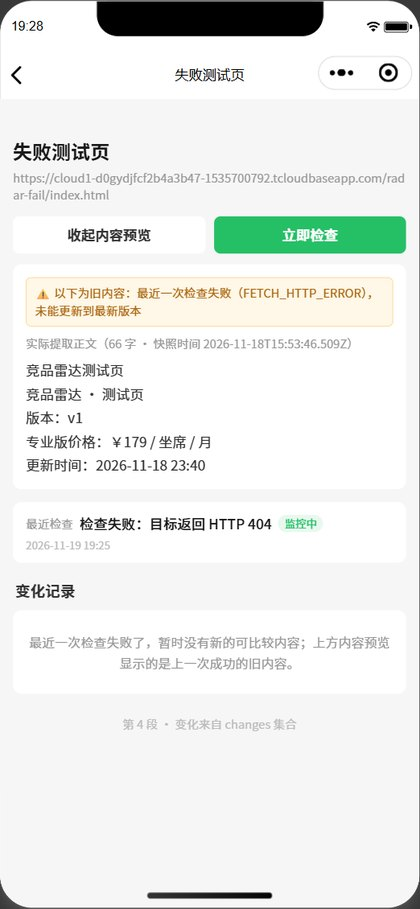
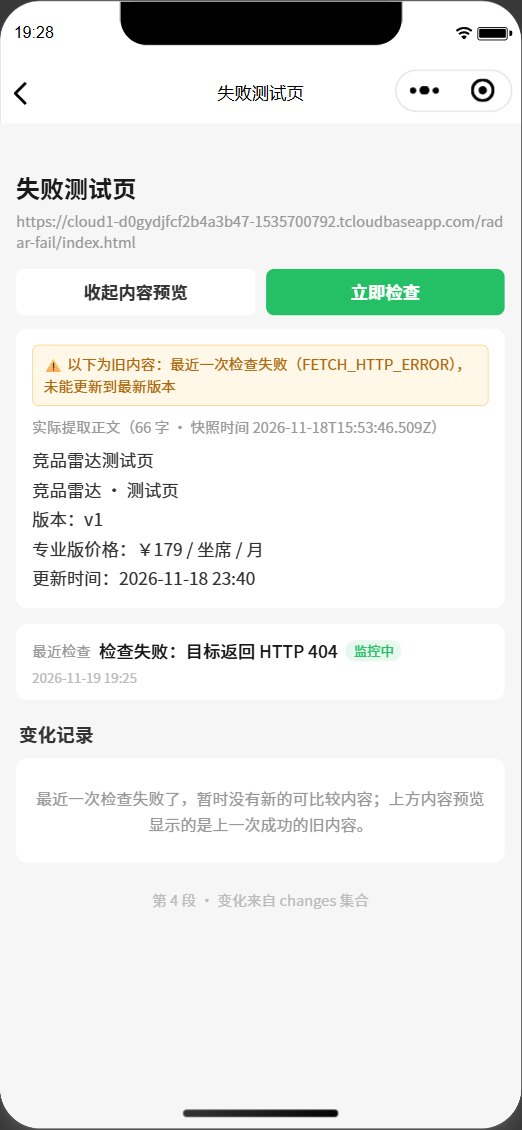
手机截图改为 2 倍分辨率并居中，配图说明对齐

diff --git a/index.html b/index.html
@@ -183,11 +183,11 @@
           <figure class="shots shots--phones">
             <div class="grid">
               <div class="shot">
-                <img src="assets/shots/radar-home.jpg" width="420" height="909" loading="lazy" decoding="async"
+                <img src="assets/shots/radar-home.jpg" width="522" height="1130" loading="lazy" decoding="async"
                      alt="小程序首页：今日检查 6、有更新 1、当前异常 2，列表最后一条显示检查失败并给出 HTTP 404">
               </div>
               <div class="shot">
-                <img src="assets/shots/radar-fail.jpg" width="420" height="909" loading="lazy" decoding="async"
+                <img src="assets/shots/radar-fail.jpg" width="522" height="1130" loading="lazy" decoding="async"
                      alt="详情页：检查失败时保留上一次成功的内容，并标注为旧内容">
               </div>
             </div>

diff --git a/assets/styles.css b/assets/styles.css
@@ -325,7 +325,7 @@ p { margin: 0; }
 .shots { margin: 34px 0 0; }
 .shots .grid { display: grid; gap: 16px; }
 .shots--browser .grid { grid-template-columns: minmax(0, 1fr); }
-.shots--phones .grid { grid-template-columns: repeat(2, minmax(0, 1fr)); gap: 20px; max-width: 560px; }
+.shots--phones .grid { grid-template-columns: repeat(2, minmax(0, 1fr)); gap: 20px; max-width: 540px; margin-inline: auto; }
 .shots--film .grid { grid-template-columns: repeat(4, minmax(0, 1fr)); gap: 14px; }
 
 .shot {
@@ -350,6 +350,7 @@ p { margin: 0; }
   color: var(--ink-3);
   max-width: 74ch;
 }
+.shots--phones figcaption { max-width: 540px; margin-inline: auto; }
 
 /* ---------- 其他经历 ---------- */
 
